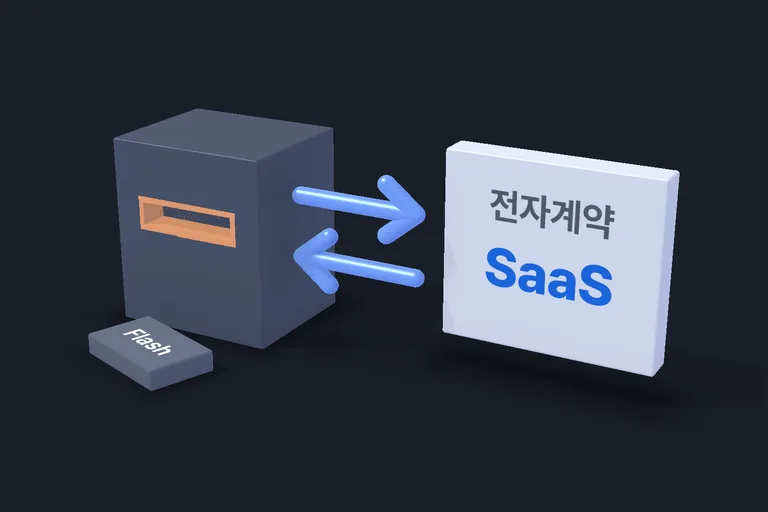
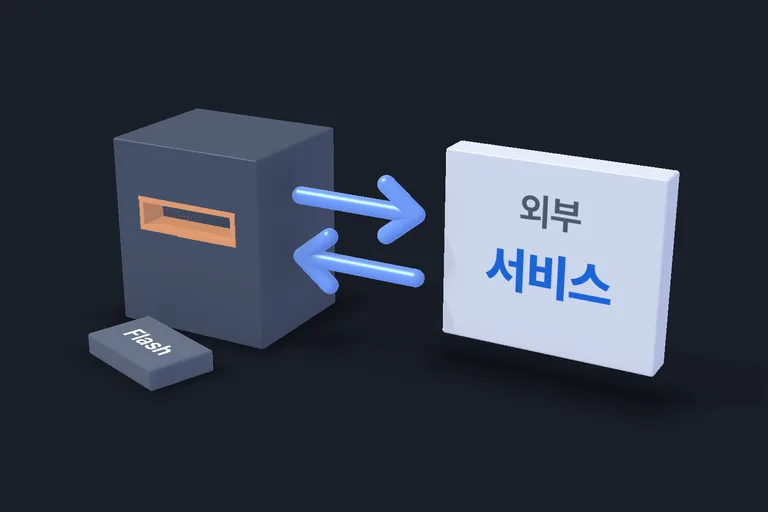
머리줄에 학습 기록을 되살리고 홈에 공부한 기록(위키·학습 기록) 줄을 둠, 표지 다듬기
- 좁은 화면(420px 이하)에서는 '학습'으로 줄이고 메뉴 칸을 38px로 좁혀 320px에서도 한 줄
- 금액 표지: 계약서를 보며 머리를 긁는 사람과 물음표
- 결재 반복 표지: 월 34건 알림을 빼고 같은 결재지가 연달아 내려오게
- Flash 표지: 카드 문구를 '외부 서비스'로
- 표지 칸 배경(--cv-bg)을 새 표지 배경색에 맞춤

Claude-Session: https://claude.ai/code/session_01FEMqTq74Fuo2AHjx5XxrAA

Changed region(s): [[0.625, 0.4688, 0.8125, 0.5938], [0.625, 0.375, 0.8125, 0.4688]]

diff --git a/src/styles/global.css b/src/styles/global.css
@@ -1845,7 +1845,7 @@ dialog.sheet,
 :root {
   --header-h: 0px;
   --header-clearance: 24px;
-  --cv-bg: #f7f8fa;
+  --cv-bg: #ecf1fa;
   --cv-sh: rgba(25, 31, 40, 0.09);
 }
 @media (prefers-color-scheme: dark) {
